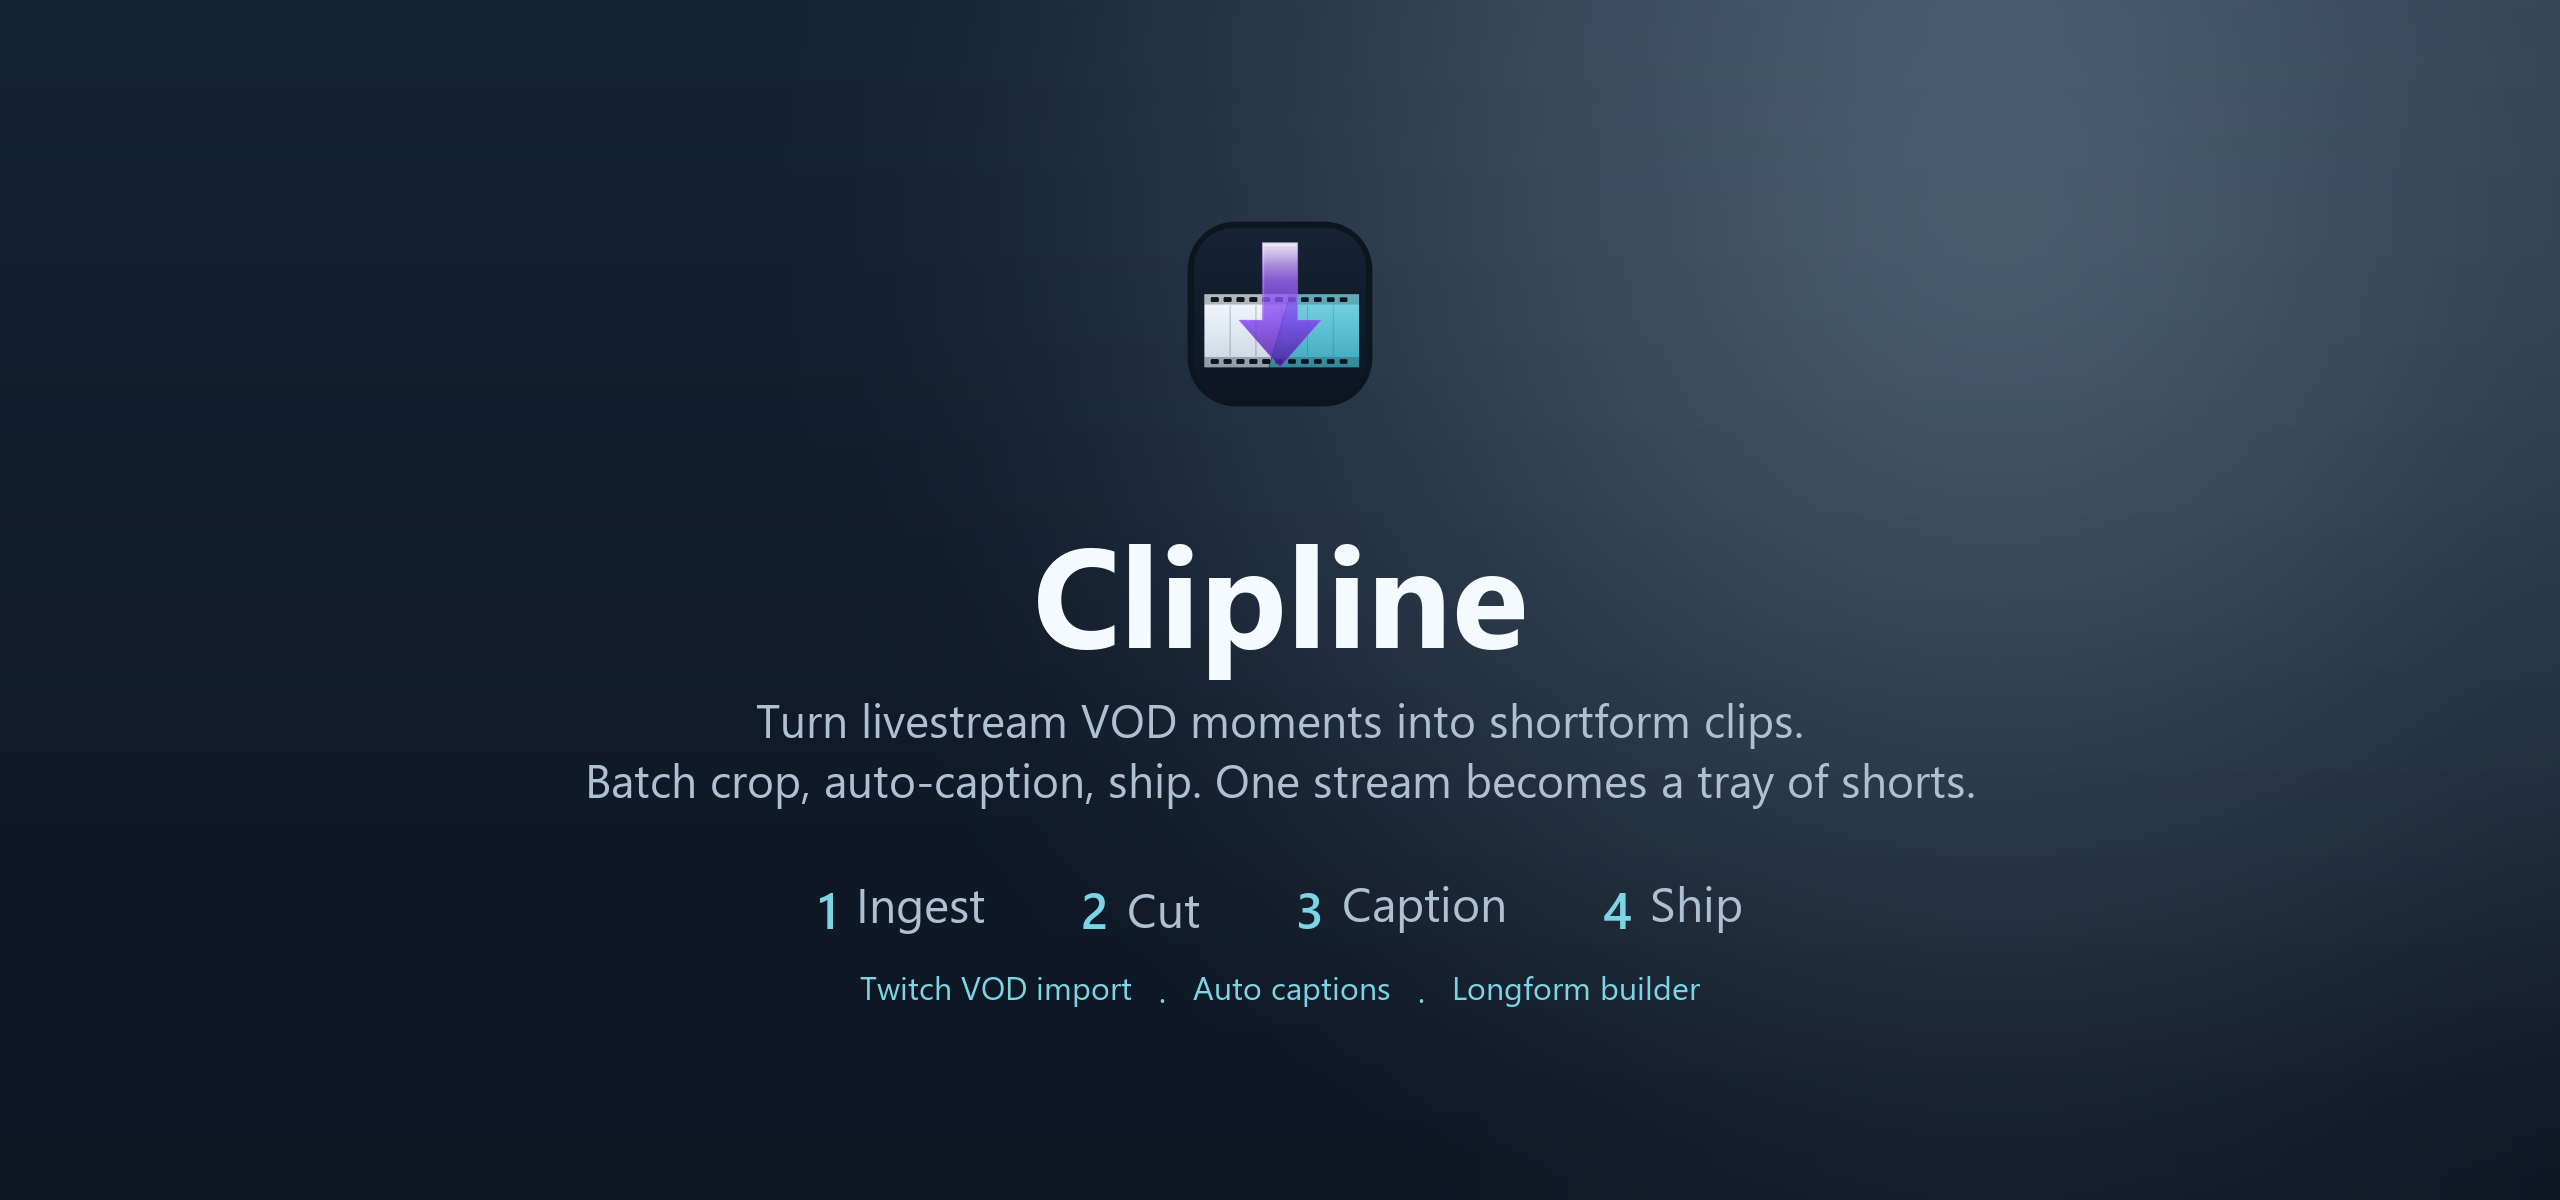
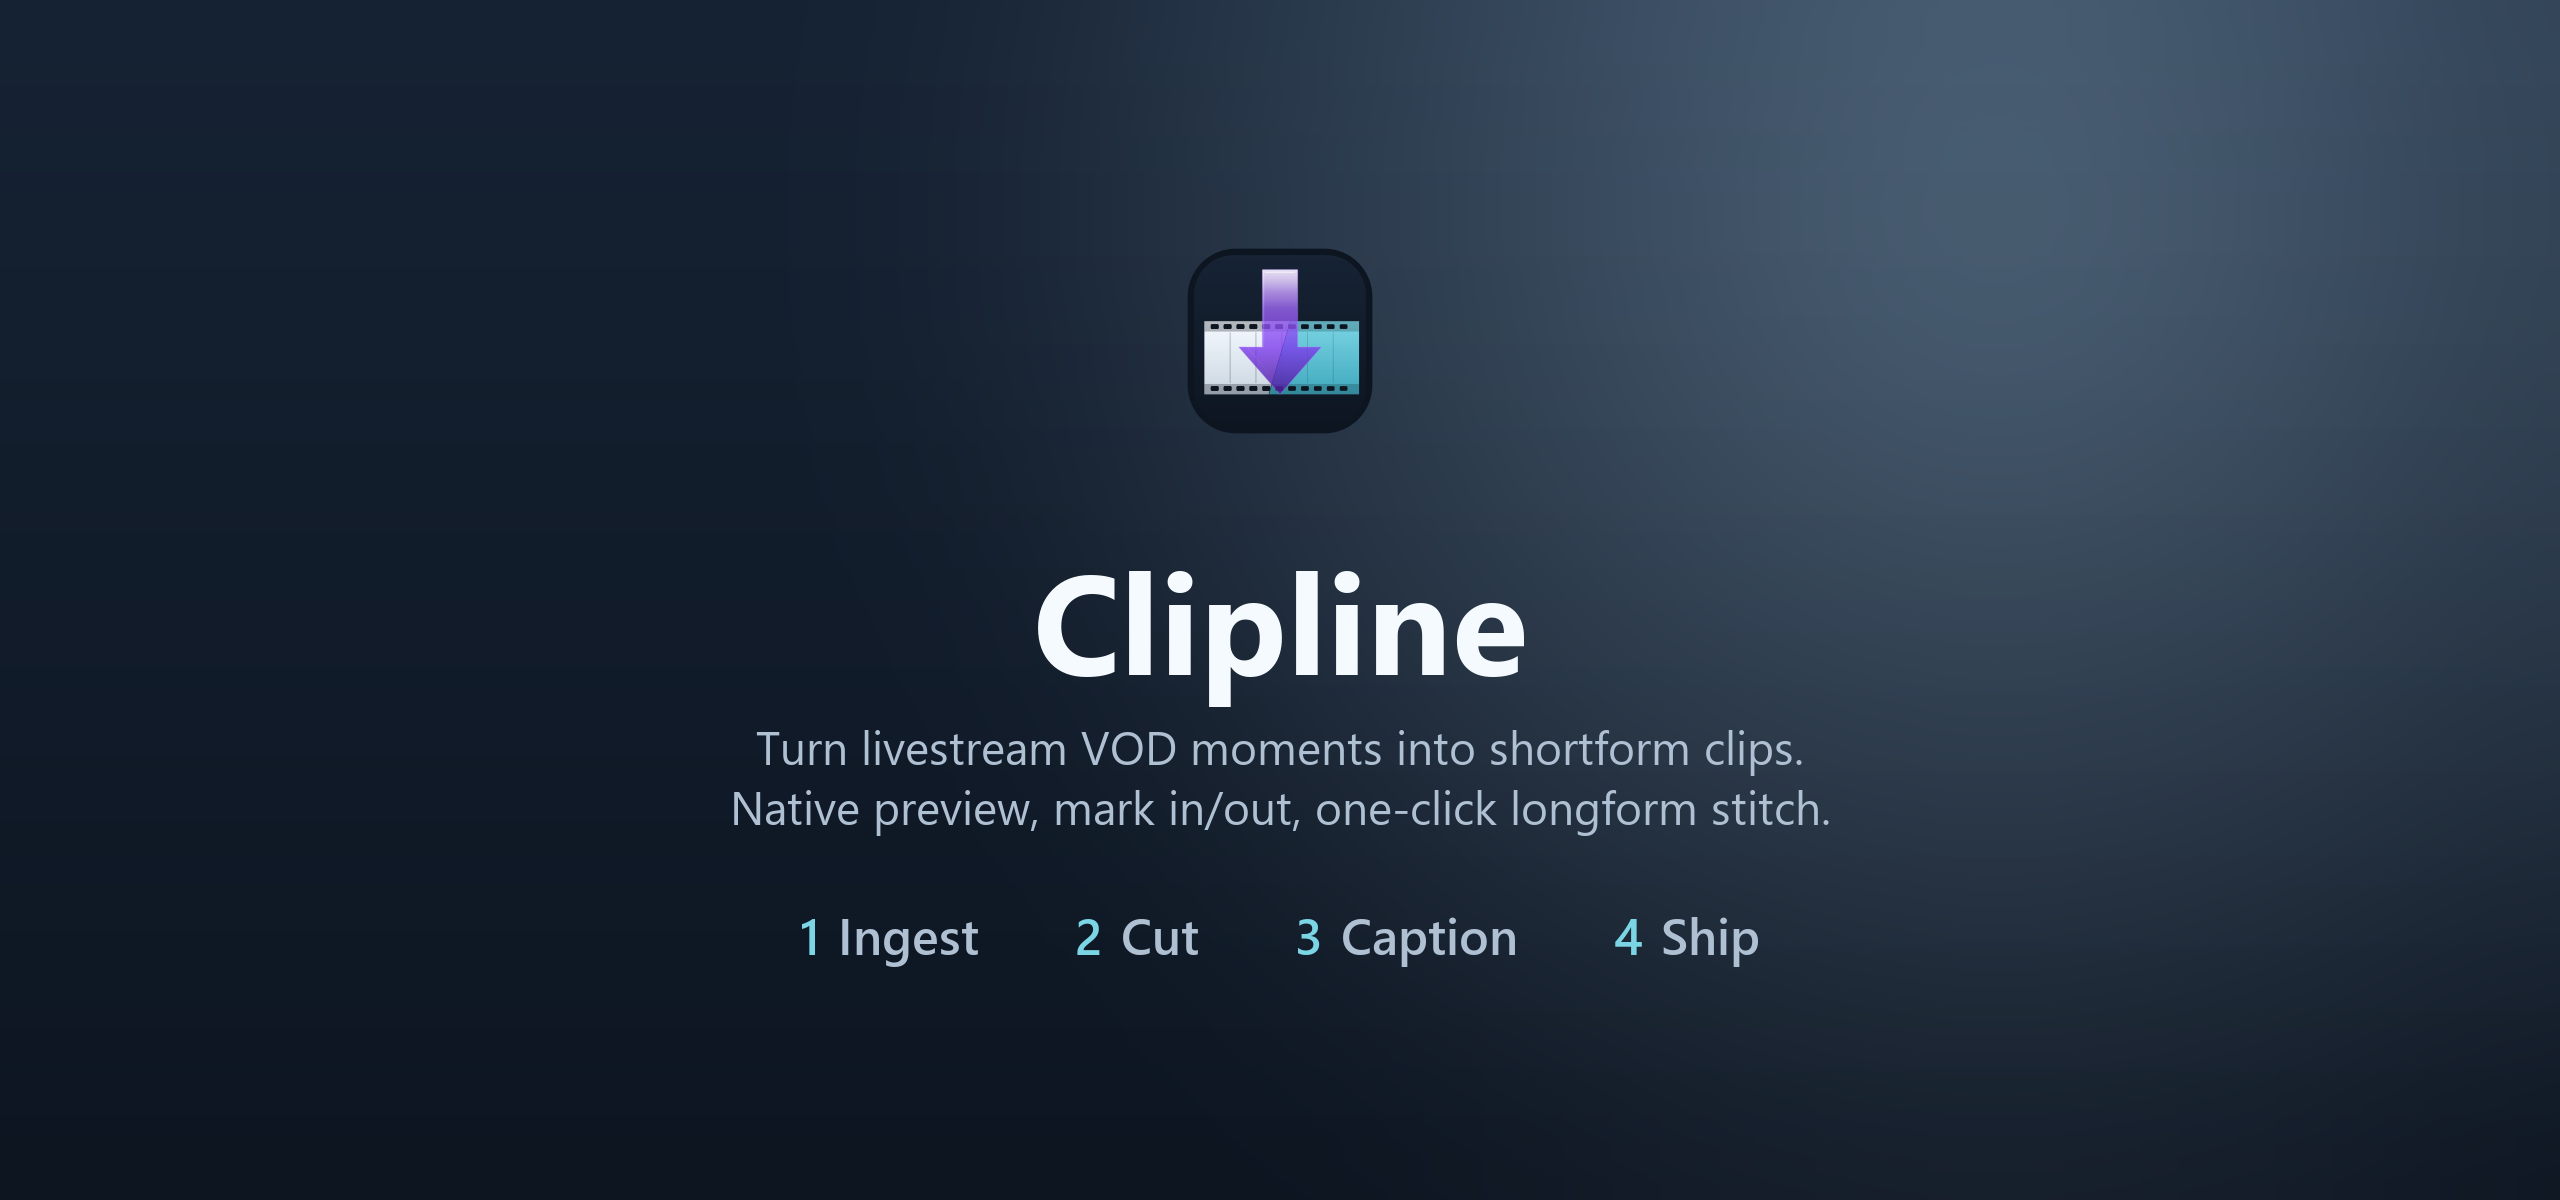
docs: hero polish — aligned step row, tighter subtitle, drop tag row
- Step row: digits and labels now use the same semibold font at the
  same size so they share one baseline. Earlier draft used semibold-50
  digits + regular-48 labels; the numbers sat visibly above the words.
  Color is what carries the visual emphasis on the number now, not
  weight.
- Subtitle line 2: drop the "tray of shorts" phrasing for something
  that actually describes what the app does
  ("Native preview, mark in/out, one-click longform stitch").
- Drop the three feature callouts under the step row — they were
  paraphrasing the step labels and added nothing.

diff --git a/scripts/generate_hero.py b/scripts/generate_hero.py
@@ -182,74 +182,37 @@ def _draw_step_row(
     draw: ImageDraw.ImageDraw,
     y: int,
     steps: list[tuple[str, str]],
-    num_font: ImageFont.FreeTypeFont,
-    label_font: ImageFont.FreeTypeFont,
+    font: ImageFont.FreeTypeFont,
 ) -> int:
-    """Render ``1 Ingest   2 Cut   3 Caption   4 Ship`` style row, centered."""
+    """Render ``1 Ingest   2 Cut   3 Caption   4 Ship``, centered, single baseline.
+
+    Number and label use the **same font and size** so digit bboxes and word
+    bboxes have matching ascent/descent — earlier versions used semibold-50
+    for digits and regular-48 for labels and the numbers sat visibly above
+    the words. Color is what carries the visual emphasis on the number now,
+    not weight.
+    """
     gap_between_items = 96
     gap_num_label = 18
+    ascent, descent = font.getmetrics()
+    row_h = ascent + descent
 
-    # Measure first to compute centering.
-    widths = []
-    heights = []
+    widths: list[int] = []
     for num, label in steps:
-        nb = draw.textbbox((0, 0), num, font=num_font)
-        lb = draw.textbbox((0, 0), label, font=label_font)
-        nw, nh = nb[2] - nb[0], nb[3] - nb[1]
-        lw, lh = lb[2] - lb[0], lb[3] - lb[1]
-        widths.append(nw + gap_num_label + lw)
-        heights.append(max(nh, lh))
+        nw = draw.textlength(num, font=font)
+        lw = draw.textlength(label, font=font)
+        widths.append(int(nw + gap_num_label + lw))
 
     total = sum(widths) + gap_between_items * (len(steps) - 1)
     x = CENTER_X - total // 2
-    row_h = max(heights)
 
     for (num, label), w in zip(steps, widths):
-        nb = draw.textbbox((0, 0), num, font=num_font)
-        nh = nb[3] - nb[1]
-        # Vertically align number and label to the same baseline by tweaking
-        # the y of the smaller piece.
-        draw.text((x, y + (row_h - nh) // 2), num, font=num_font, fill=ACCENT)
-        nw = nb[2] - nb[0]
-        lb = draw.textbbox((0, 0), label, font=label_font)
-        lh = lb[3] - lb[1]
-        draw.text(
-            (x + nw + gap_num_label, y + (row_h - lh) // 2),
-            label,
-            font=label_font,
-            fill=INK_MUTED,
-        )
+        # ``anchor="lt"`` (the default) measures from the top of the line box,
+        # so both glyphs share the same baseline at ``y + ascent``.
+        nw = draw.textlength(num, font=font)
+        draw.text((x, y), num, font=font, fill=ACCENT)
+        draw.text((x + nw + gap_num_label, y), label, font=font, fill=INK_MUTED)
         x += w + gap_between_items
-    return y + row_h
-
-
-def _draw_feature_tags(
-    draw: ImageDraw.ImageDraw,
-    y: int,
-    tags: list[str],
-    font: ImageFont.FreeTypeFont,
-) -> int:
-    sep = "   ·   "
-    pieces: list[tuple[str, tuple[int, int, int]]] = []
-    for i, tag in enumerate(tags):
-        if i > 0:
-            # Separator in the same accent as the tags so it reads as one
-            # unified row (alert-alert uses the same orange for both).
-            pieces.append((sep, ACCENT))
-        pieces.append((tag, ACCENT))
-    total = 0
-    heights = []
-    for text, _ in pieces:
-        bbox = draw.textbbox((0, 0), text, font=font)
-        total += bbox[2] - bbox[0]
-        heights.append(bbox[3] - bbox[1])
-    x = CENTER_X - total // 2
-    row_h = max(heights)
-    for text, color in pieces:
-        bbox = draw.textbbox((0, 0), text, font=font)
-        h = bbox[3] - bbox[1]
-        draw.text((x, y + (row_h - h) // 2), text, font=font, fill=color)
-        x += bbox[2] - bbox[0]
     return y + row_h
 
 
@@ -267,15 +230,12 @@ def main() -> None:
     icon_size = 220
     head_font = _font_bold(140)
     sub_font = _font_regular(46)
-    step_num_font = _font_semibold(50)
-    step_label_font = _font_regular(48)
-    tag_font = _font_regular(32)
+    step_font = _font_semibold(50)  # single font for numbers + labels
 
     head_text = "Clipline"
     sub_line1 = "Turn livestream VOD moments into shortform clips."
-    sub_line2 = "Batch crop, auto-caption, ship. One stream becomes a tray of shorts."
+    sub_line2 = "Native preview, mark in/out, one-click longform stitch."
     steps = [("1", "Ingest"), ("2", "Cut"), ("3", "Caption"), ("4", "Ship")]
-    tags = ["Twitch VOD import", "Auto captions", "Longform builder"]
 
     canvas_img = bg.convert("RGBA")
     draw = ImageDraw.Draw(canvas_img)
@@ -284,21 +244,19 @@ def main() -> None:
     _, head_h = _measure_text(draw, head_text, head_font)
     _, sub1_h = _measure_text(draw, sub_line1, sub_font)
     _, sub2_h = _measure_text(draw, sub_line2, sub_font)
-    _, step_h = _measure_text(draw, "Cy", step_num_font)
-    _, tag_h = _measure_text(draw, "Cy", tag_font)
+    step_ascent, step_descent = step_font.getmetrics()
+    step_h = step_ascent + step_descent
 
     gap_icon_head = 72
     gap_head_sub = 56
     gap_sub_lines = 14
-    gap_sub_steps = 76
-    gap_steps_tags = 48
+    gap_sub_steps = 80
 
     stack_h = (
         icon_size + gap_icon_head
         + head_h + gap_head_sub
         + sub1_h + gap_sub_lines + sub2_h + gap_sub_steps
-        + step_h + gap_steps_tags
-        + tag_h
+        + step_h
     )
     stack_top = (CANVAS[1] - stack_h) // 2
 
@@ -315,11 +273,9 @@ def main() -> None:
     y = _draw_centered(draw, y, sub_line1, sub_font, INK_MUTED) + gap_sub_lines
     y = _draw_centered(draw, y, sub_line2, sub_font, INK_MUTED) + gap_sub_steps
 
-    # Step row — Clipline's funnel.
-    y = _draw_step_row(draw, y, steps, step_num_font, step_label_font) + gap_steps_tags
-
-    # Feature tags
-    _draw_feature_tags(draw, y, tags, tag_font)
+    # Step row — Clipline's funnel. No tag row underneath — earlier draft
+    # had three feature callouts that were just paraphrasing the step labels.
+    _draw_step_row(draw, y, steps, step_font)
 
     OUTPUT_PATH.parent.mkdir(parents=True, exist_ok=True)
     canvas_img.convert("RGB").save(OUTPUT_PATH, format="PNG", optimize=True)